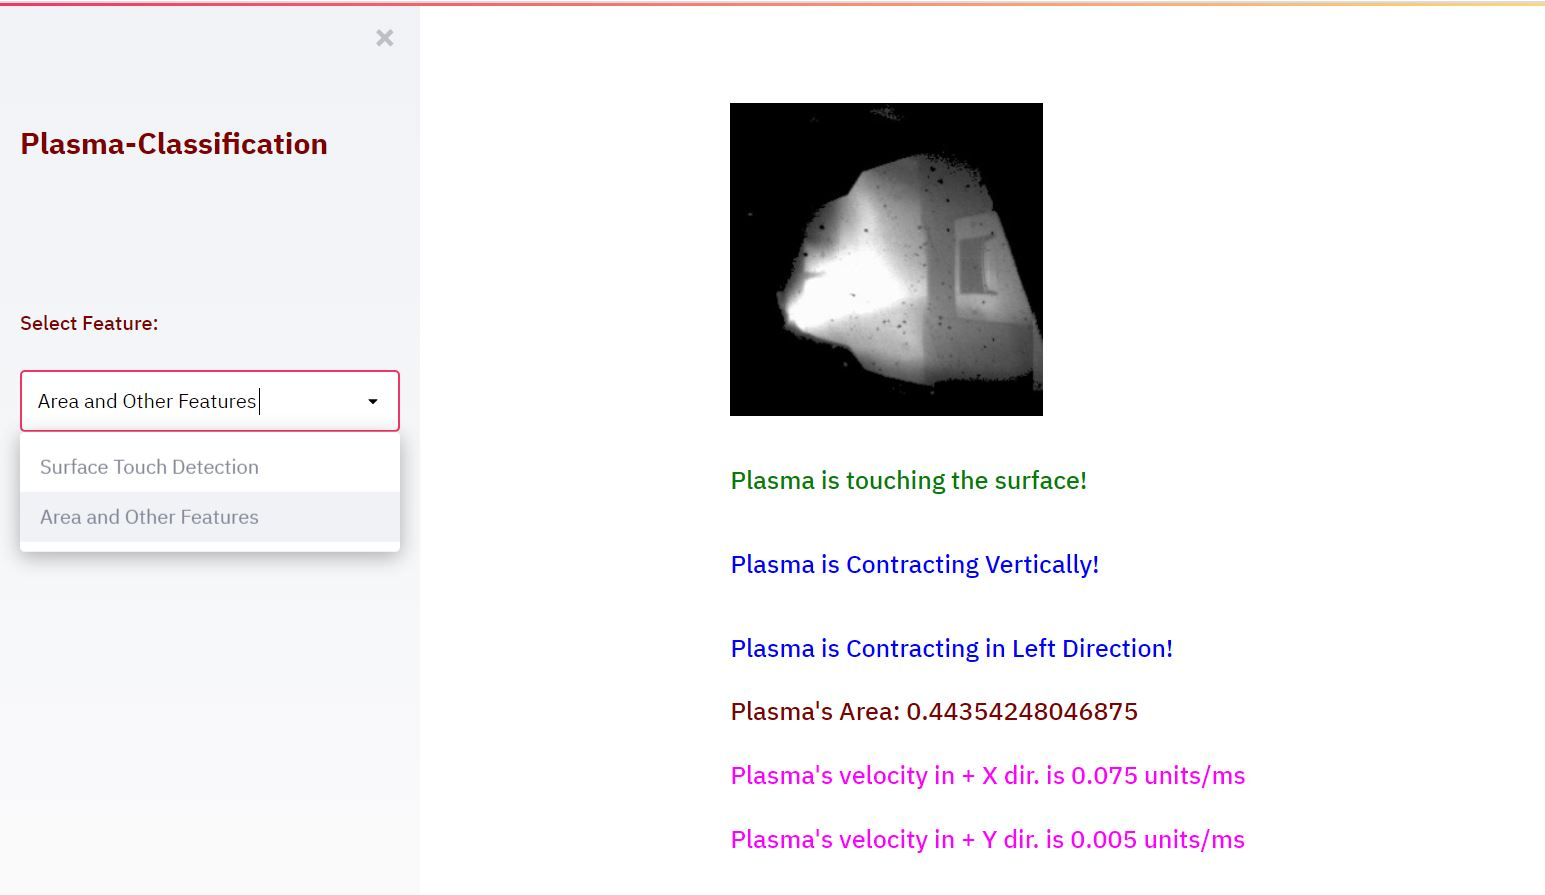
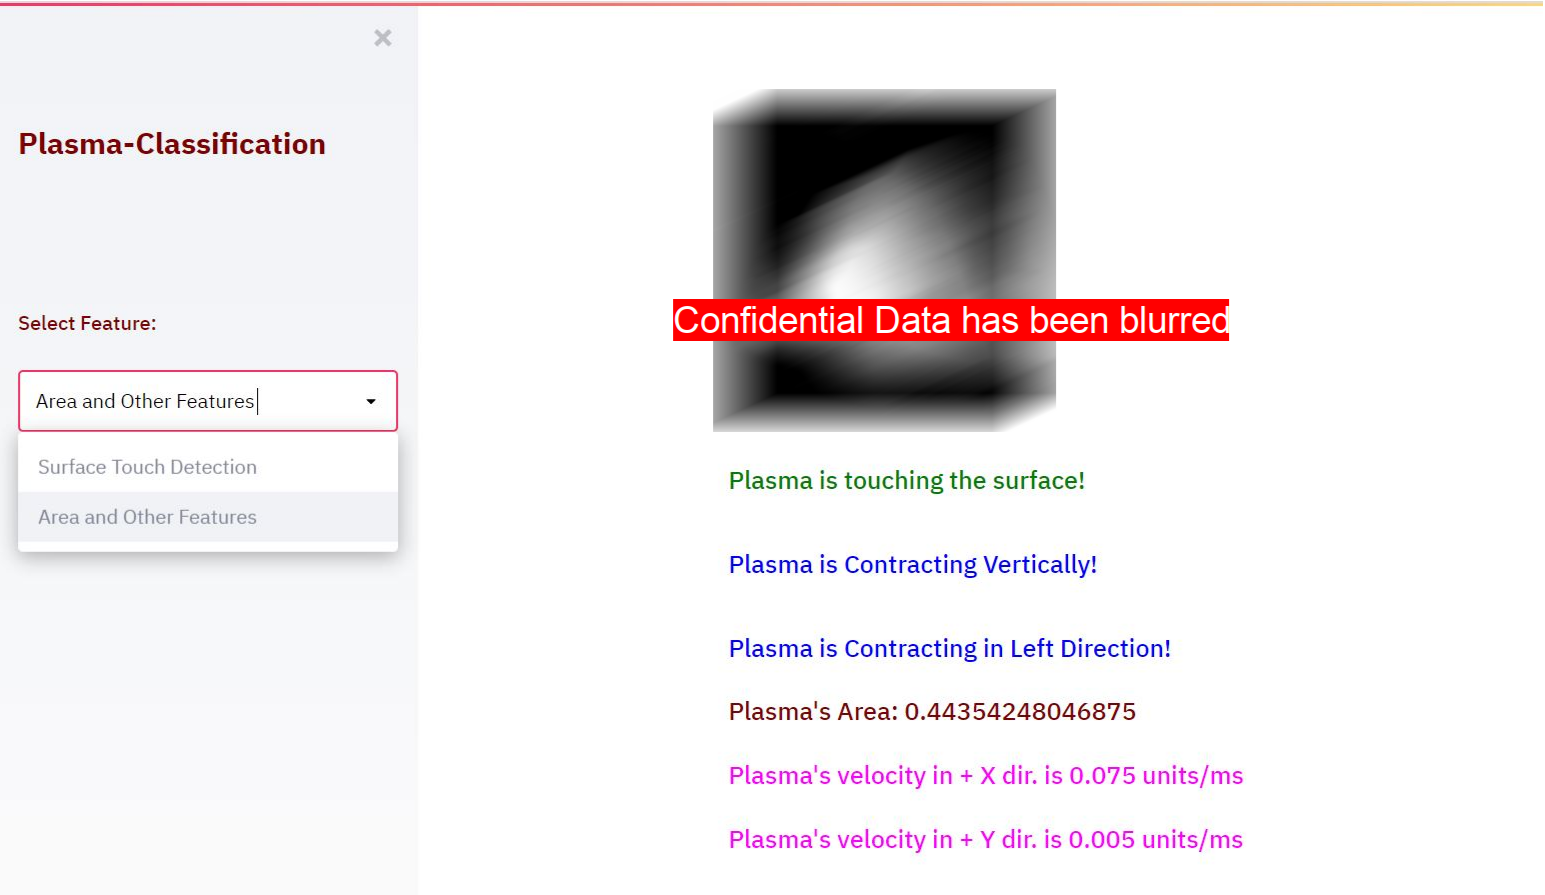
ALL: Finishing touches

diff --git a/README.md b/README.md
@@ -1,0 +1,18 @@
+# Plasma Classification
+
+- This Project was developed to automize plasma detection and dynamics at NRC, Ahmedabad.
+- Plasma movement, size, and existence were aimed to calculated in this
+project. Confidential data available with NRC, Ahmedabad was used to
+accomplish this feat. 
+- Various numerical methods, image processing techniques were learned. To fulfill the aim of building an end to end application we developed Web-App using Streamlit.
+
+### Data Preparation:
+![](https://github.com/cmdev007/Plasma-Classification/raw/main/images/figure1.png)
+
+- The data was in terms of video.
+- We have developed a pipeline to convert all videos to images using **Linux+Python.**
+
+### Front-End:
+- As the project was supposed to be used by non-techie people, we developed front-end using StreamLit.
+- The front-end shows live demo of all the parameters of Plasma.
+![](https://github.com/cmdev007/Plasma-Classification/raw/main/images/figure2.png)
